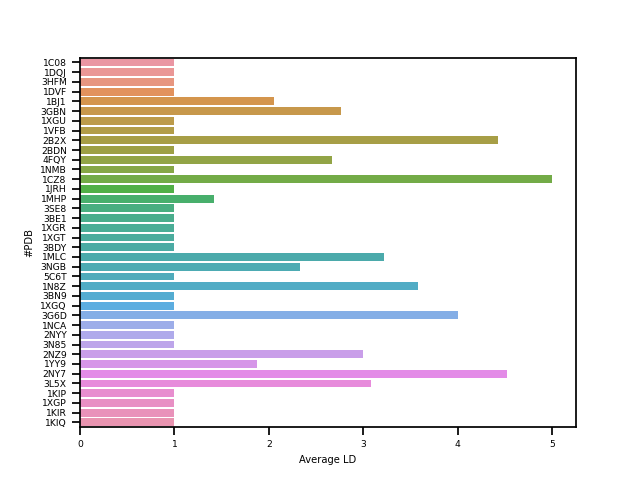
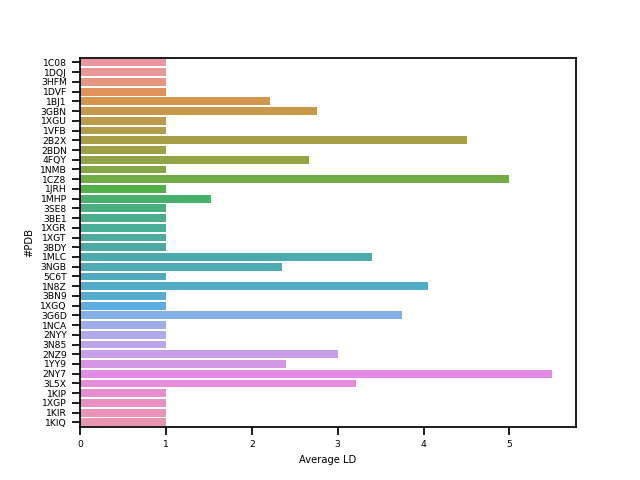
figure updates and other stuff

diff --git a/stats.py b/stats.py
@@ -12,14 +12,15 @@ sns.set_context("notebook", font_scale = 0.6)
 
 data = pd.read_csv("~/rosetta-antibody-ddgs/raw_datasets/interface_data_use.csv")
 
-### Plotting average LD per PDB
+### Plotting average LD per PDB NOTE: for interface mutations
 
 averages = pd.DataFrame()
 averages["#PDB"] = data["#PDB"].unique()
 averages_list = []
+interface_data = data[data["Interface?"] == True]
 
 for pdb in averages["#PDB"]:
-    lds = data[data["#PDB"] == pdb]["LD"]
+    lds = interface_data[interface_data["#PDB"] == pdb]["LD"]
     averages_list.append(sum(lds) / len(lds))
 
 averages["Average LD"] = averages_list
@@ -34,7 +35,7 @@ averages["Source"] = data["Source"].unique()
 averages_list = []
 
 for source in averages["Source"]:
-    lds = data[data["Source"] == source]["LD"]
+    lds = interface_data[interface_data["Source"] == source]["LD"]
     averages_list.append(sum(lds) / len(lds))
 
 averages["Average LD"] = averages_list
@@ -53,7 +54,7 @@ muts_to_aa = []
 
 for aa in aas:
     # count regex matches in mutations
-    all_mut_aa = data["Mutations"].apply(lambda x: re.findall(
+    all_mut_aa = interface_data["Mutations"].apply(lambda x: re.findall(
         fr"\w:\w\d+{aa}", x))
     num_mut_per_data = all_mut_aa.apply(len)
     total_mut = sum(num_mut_per_data)
@@ -71,7 +72,7 @@ mut_pdbs["#PDB"] = data["#PDB"].unique()
 mut_pdbs_list = []
 
 for pdb in mut_pdbs["#PDB"]:
-    lds = data[data["#PDB"] == pdb]["LD"]
+    lds = interface_data[interface_data["#PDB"] == pdb]["LD"]
     mut_pdbs_list.append(sum(lds))
 
 mut_pdbs["Number of Mutations"] = mut_pdbs_list
